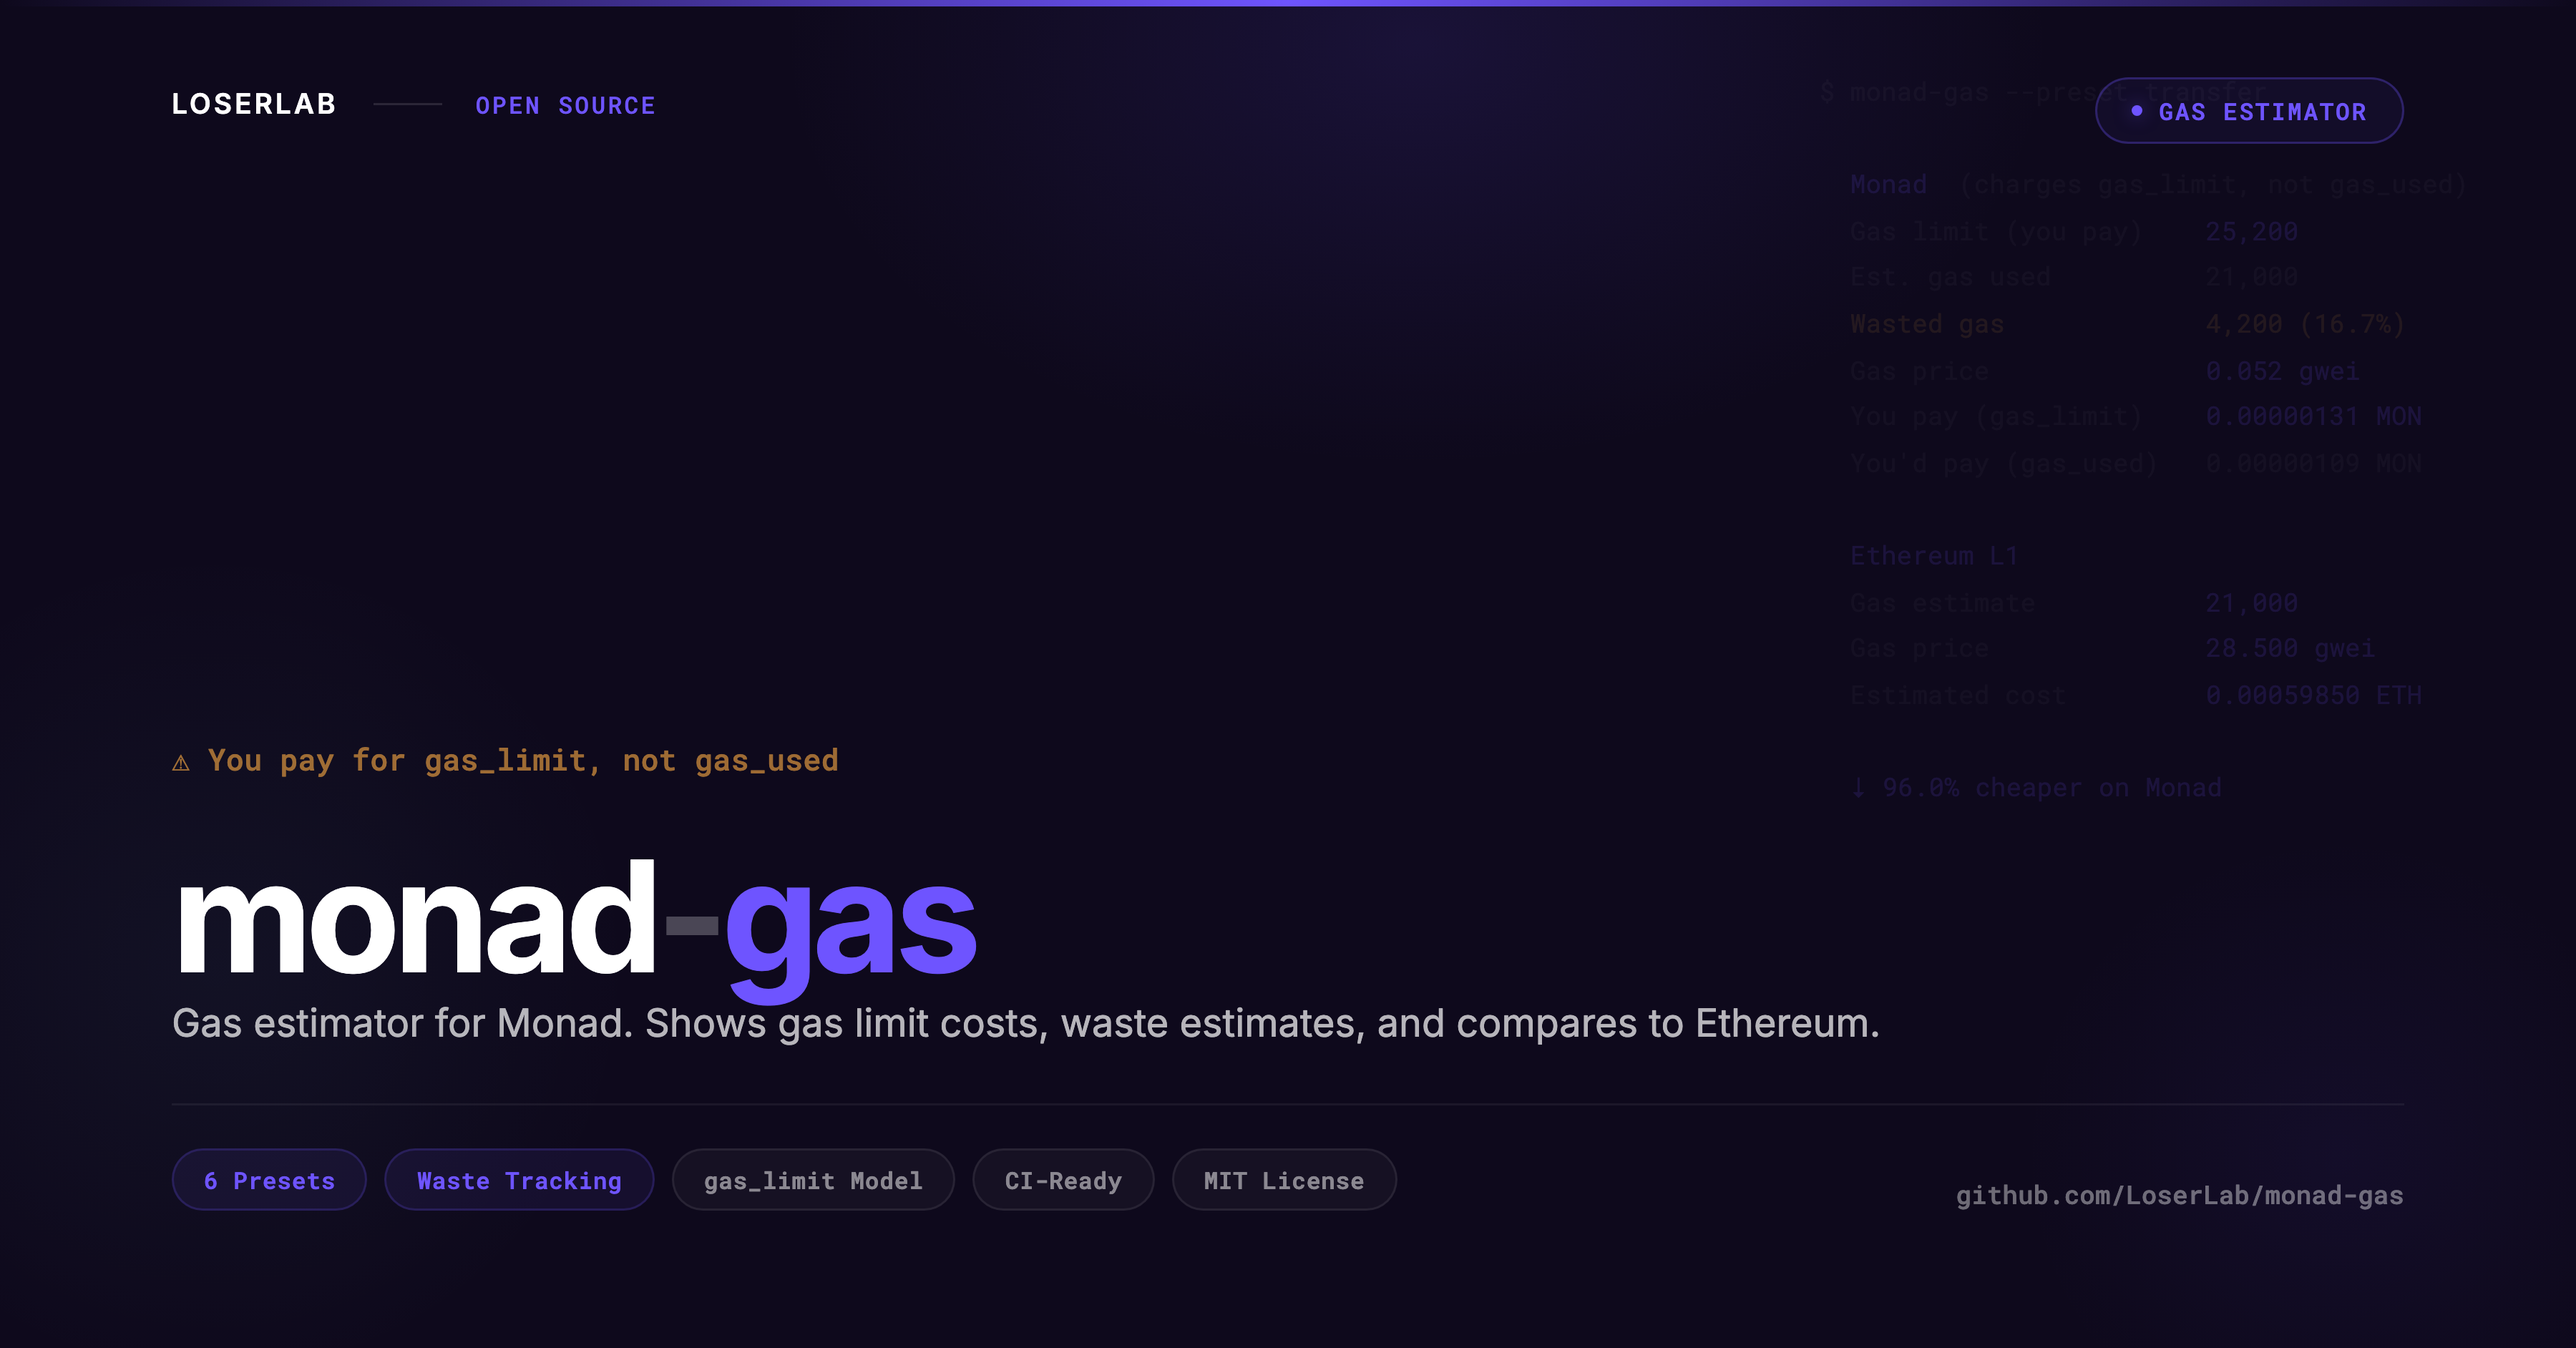
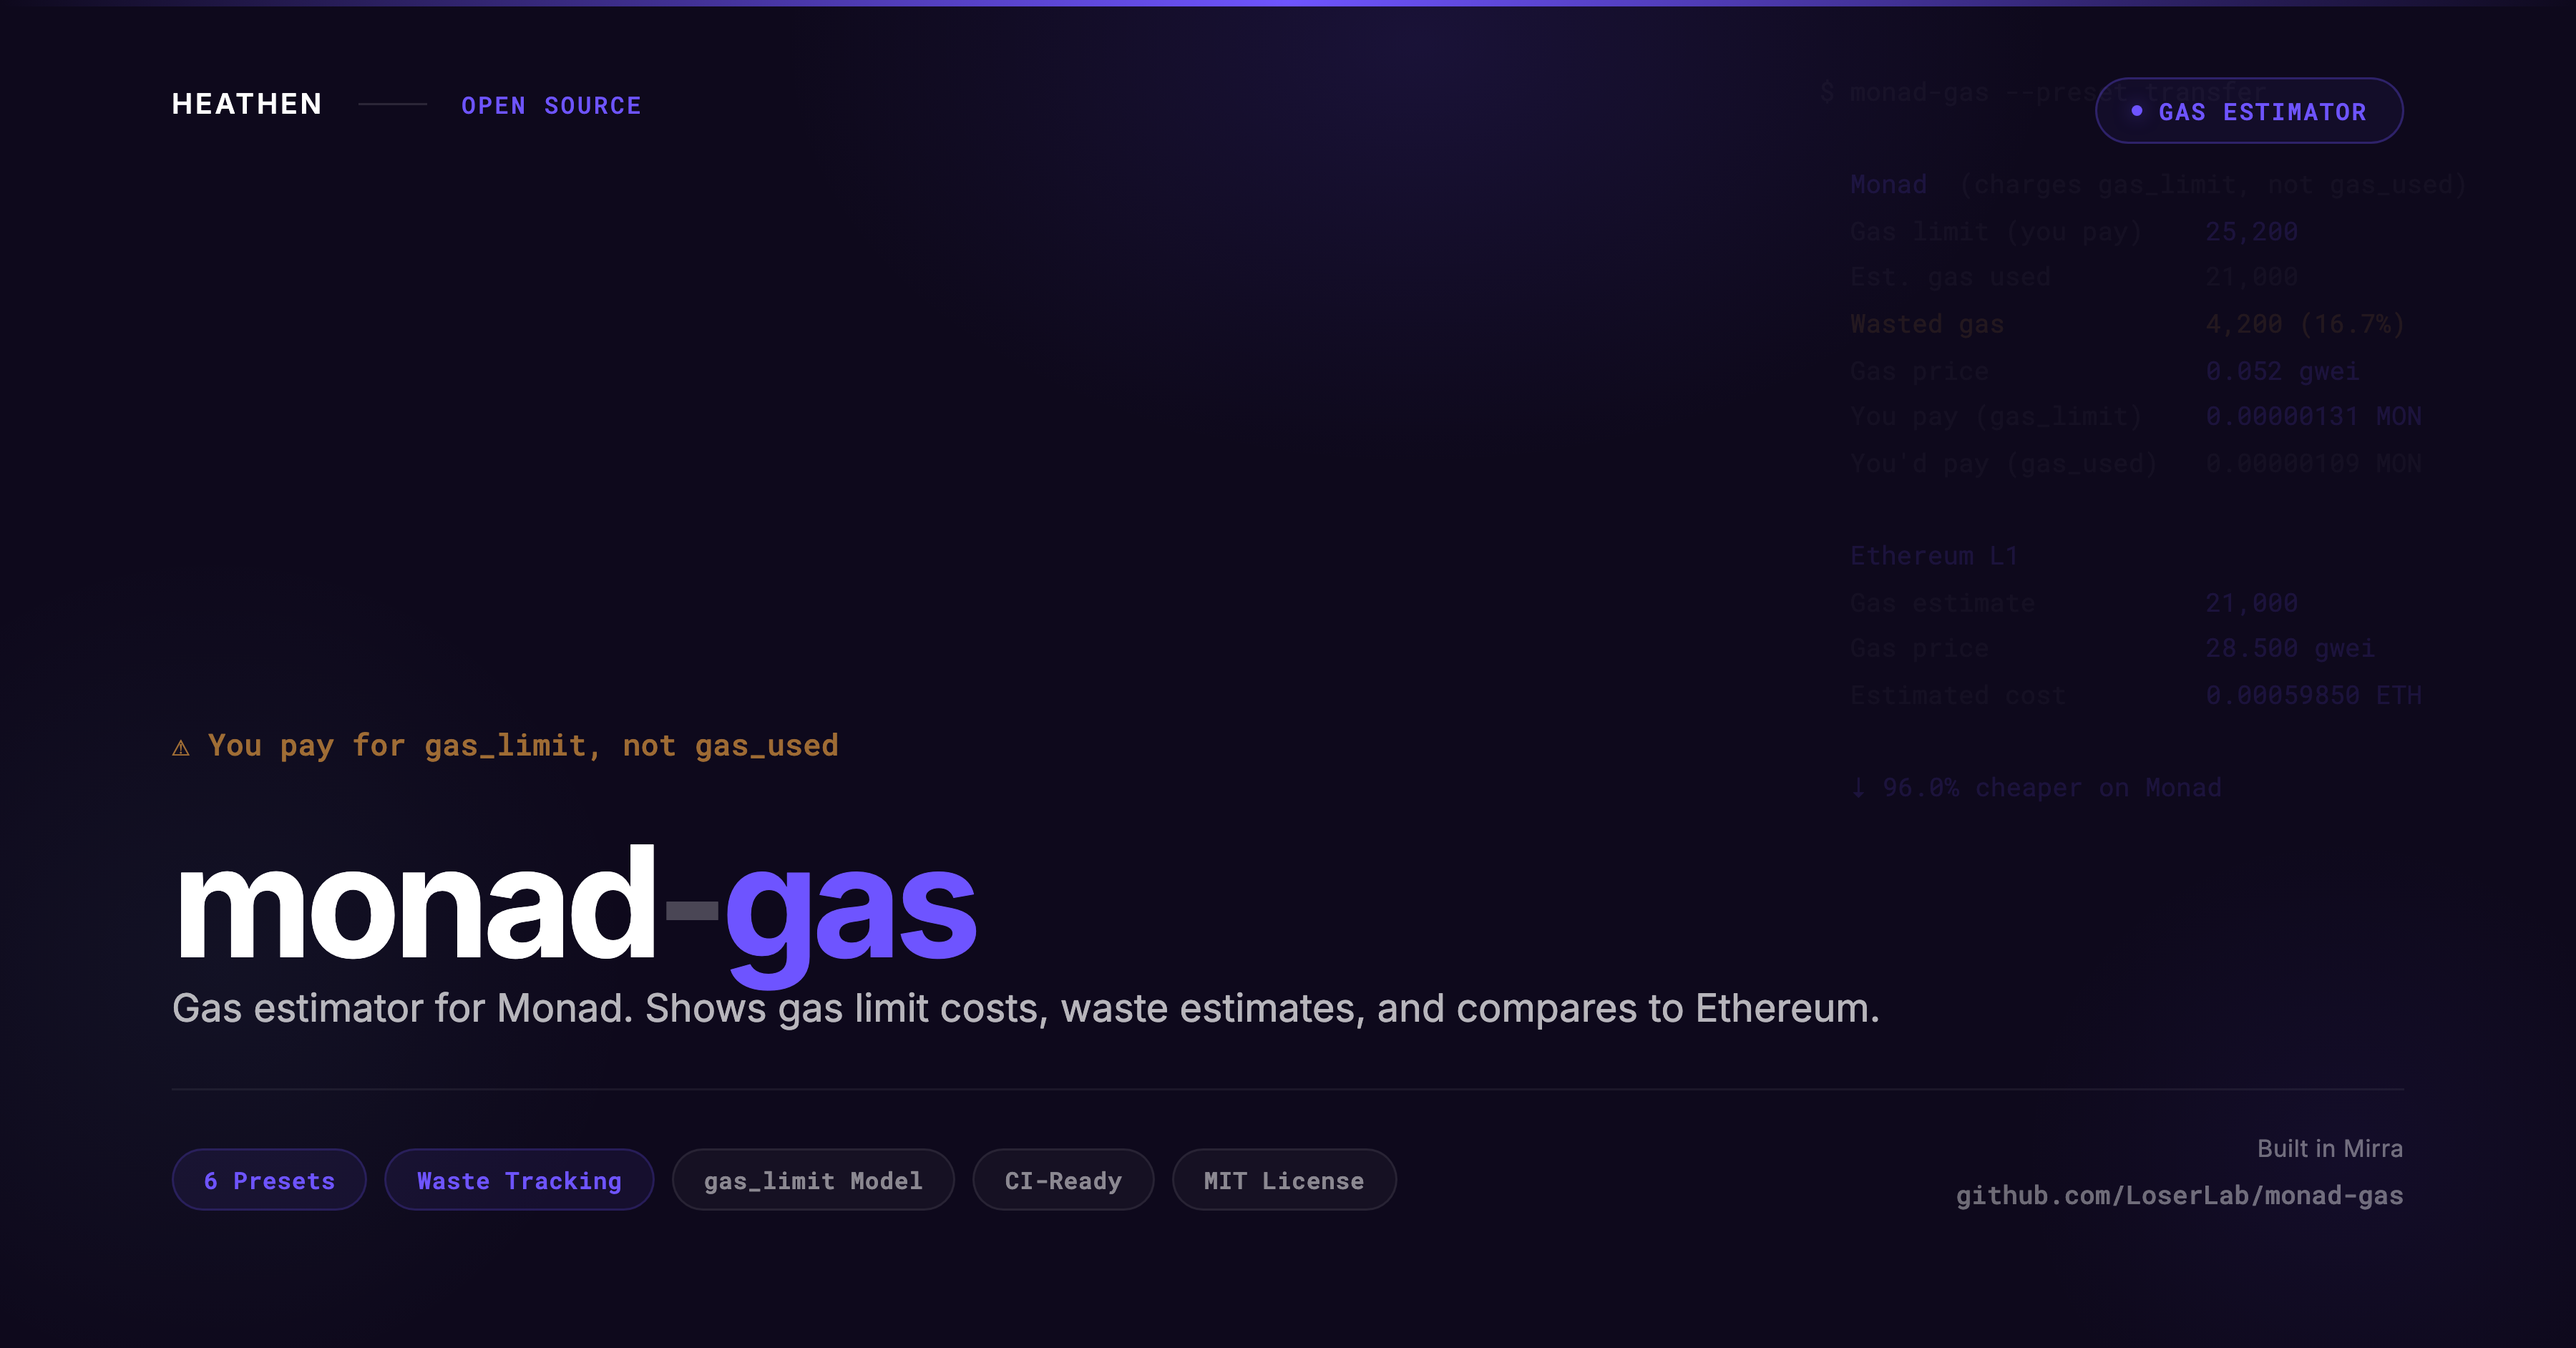
Fix social card: heathen brand, Built in Mirra

diff --git a/social/card.html b/social/card.html
@@ -238,6 +238,14 @@
     gap: 6px;
   }
 
+  .built-in {
+    font-family: 'Inter', sans-serif;
+    font-size: 11px;
+    font-weight: 400;
+    color: rgba(255, 255, 255, 0.4);
+    letter-spacing: 0.02em;
+  }
+
   .repo-link {
     font-family: 'Roboto Mono', monospace;
     font-size: 12px;
@@ -271,7 +279,7 @@
 <span class="c-purple">  ↓ 96.0% cheaper on Monad</span></div>
 
   <div class="brand">
-    <span class="brand-name">LoserLab</span>
+    <span class="brand-name">heathen</span>
     <div class="brand-line"></div>
     <span class="brand-type">Open Source</span>
   </div>
@@ -298,6 +306,7 @@
         <span class="pill pill-ghost">MIT License</span>
       </div>
       <div class="bottom-right">
+        <span class="built-in">Built in Mirra</span>
         <span class="repo-link">github.com/LoserLab/monad-gas</span>
       </div>
     </div>
